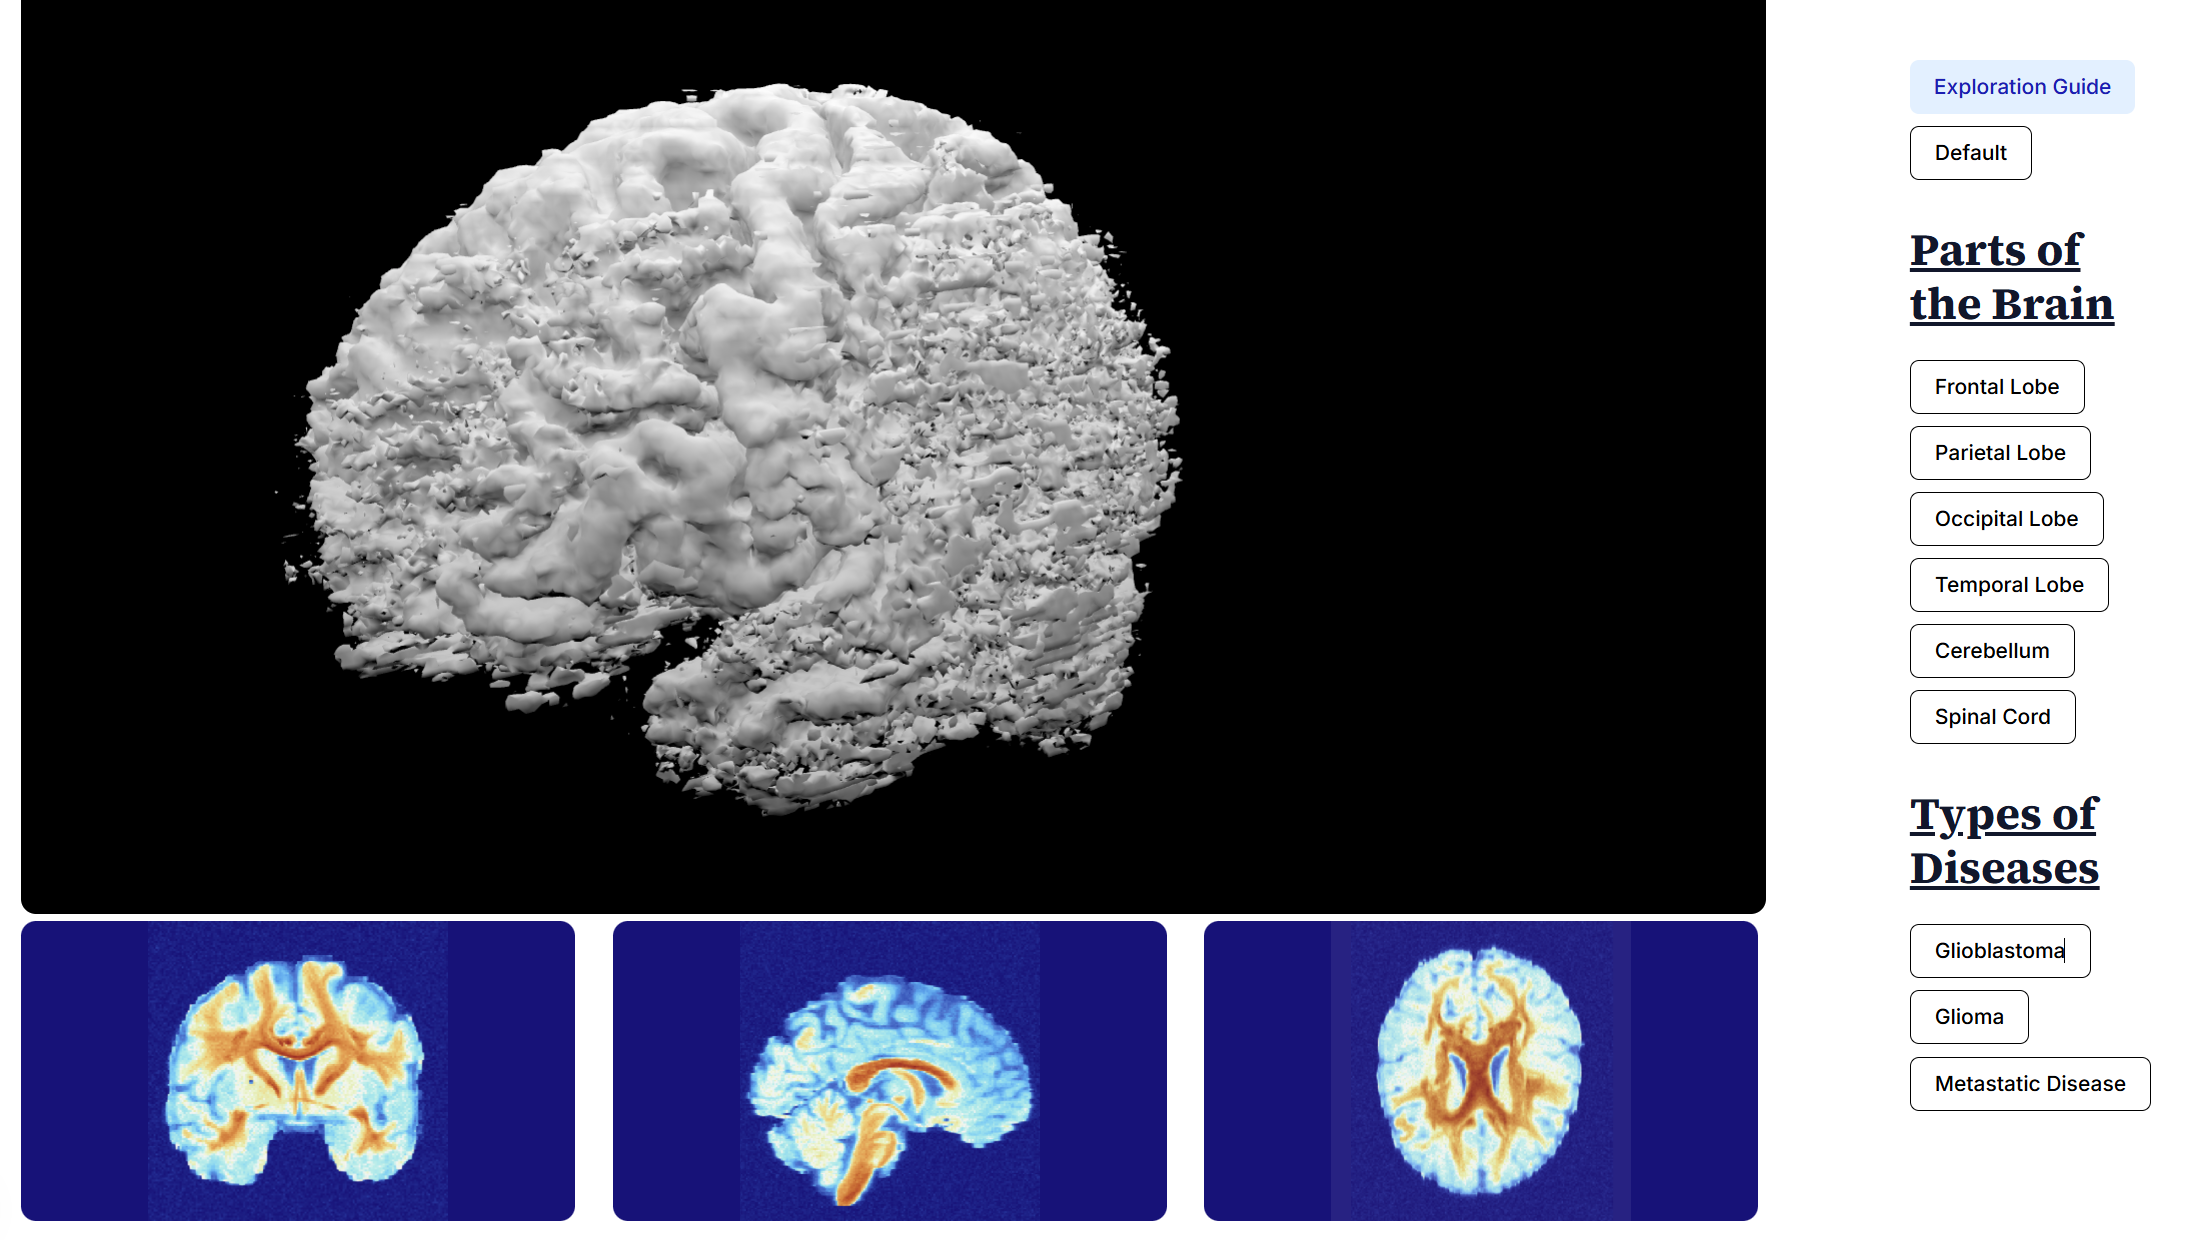
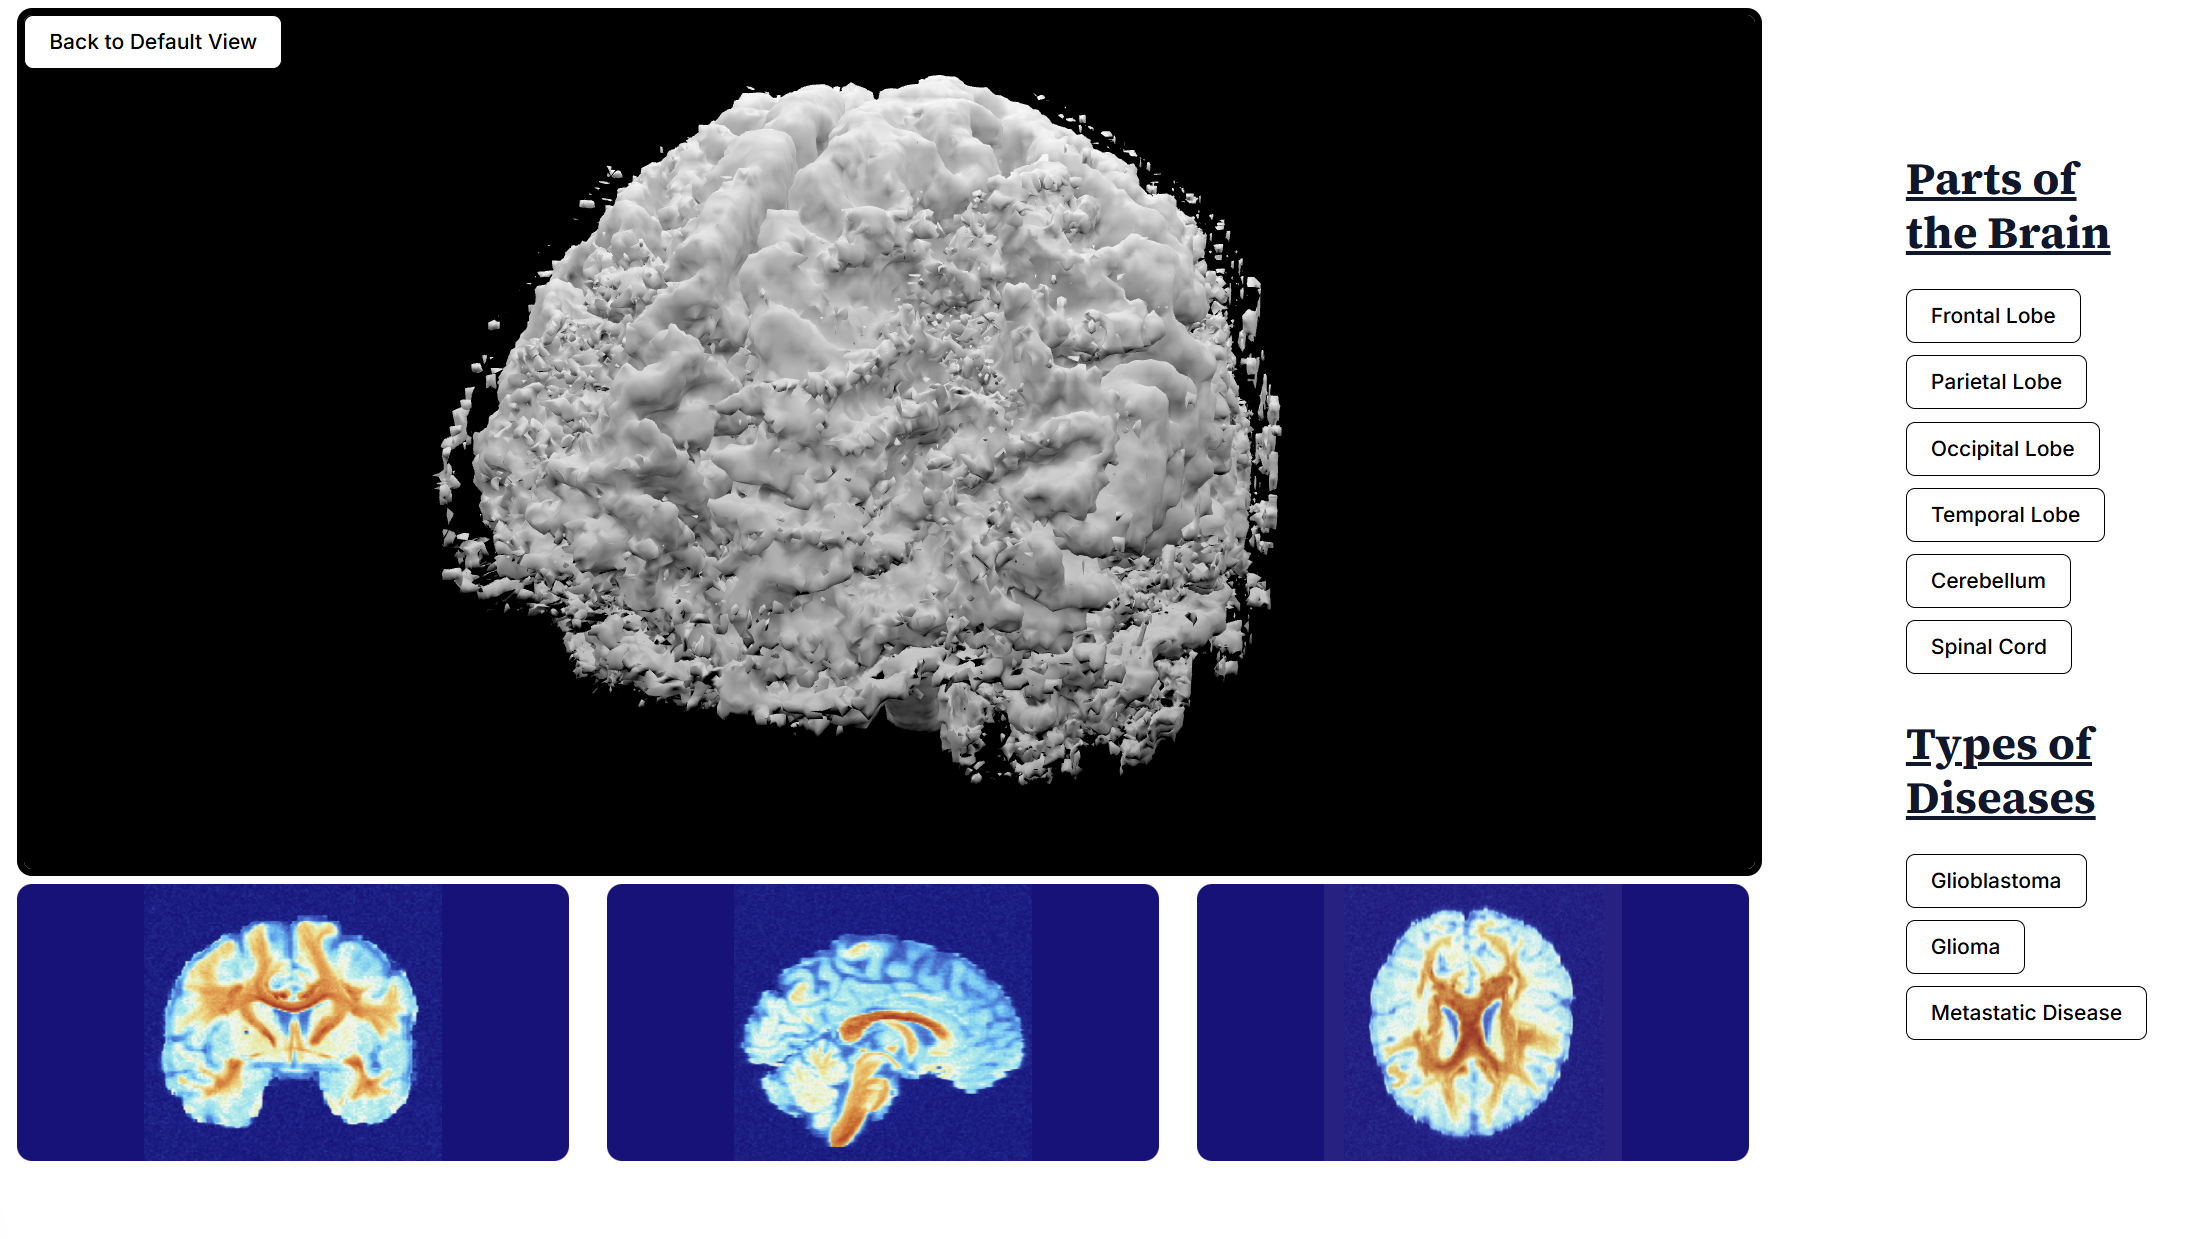
Title margin

diff --git a/app/explore/page.tsx b/app/explore/page.tsx
@@ -13,18 +13,18 @@ export default function Explore() {
 
   return (
     <main className="min-h-screen flex flex-col items-center justify-start" style={{scrollBehavior: "smooth"}}>
-      <div className="text-left">
+      <div style={{marginRight: "40%"}}>
         
         {/* ----------HEADER---------- */}
         
-<div>
+      <div>
           <h1 className="text-4xl sm:text-5xl font-bold font-source-serif-4 text-blue-700 my-5 text-left">
             Explore Brain MRI Visualizations
           </h1>
           <p className="text-wrap break-words sm:text-pretty">
             In the following sections, you can view, interact with, and discover more about MRIs.
           </p>
-</div>
+        </div>
 
         {/* ----------SUBTITLE---------- */}
         <div className="flex gap-4">
@@ -42,7 +42,7 @@ export default function Explore() {
           <Button variant="explore" style={{marginBottom: "5%"}} onClick={() => setOpacity(0.15)}>Low Contrast</Button>
           <br/>
         </div>
-      </div>
+    </div>
 
       <div
         id="float-container"
